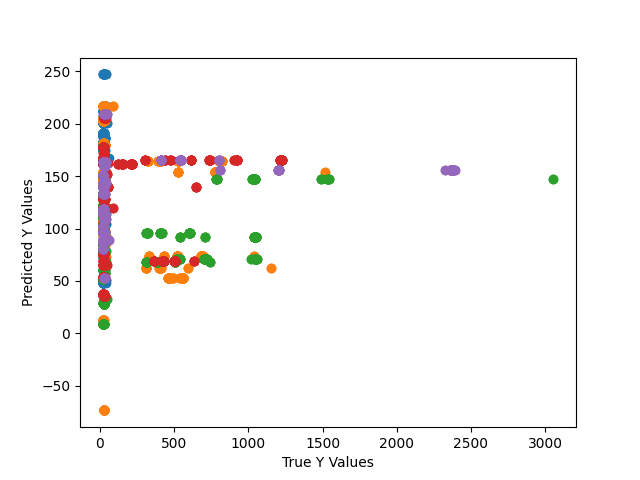
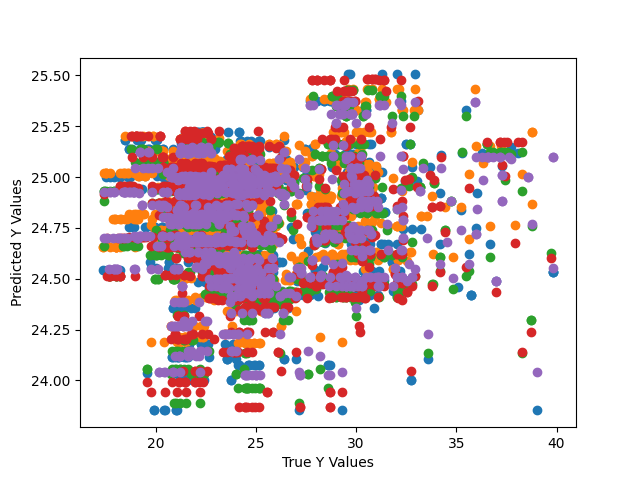
Day 3

diff --git a/final-project-actual.py b/final-project-actual.py
@@ -11,24 +11,11 @@ from sklearn.model_selection import KFold
 from sklearn import linear_model
 from sklearn.metrics import mean_squared_error, r2_score
 
-
-# Load the dataset
-# df = pd.read_csv('f1_pitstops_2018_2024.csv')
-
-# # Grab relevant columns
-# x_cols = ['Air_Temp_C', 'Track_Temp_C', 'Humidity_%', 'Wind_Speed_KMH']
-# x_variables = df[x_cols]
-# label = df['AvgPitStopTime']
-
-
-# # Clean data
-# df = df.dropna(subset=x_cols)
-# df = df.dropna(subset=['AvgPitStopTime'])
-
-# df.to_csv('f1_pitstops_2018_2024_cleaned.csv', index=False)
-
 # Load the cleaned dataset
 df = pd.read_csv('f1_pitstops_2018_2024_cleaned.csv')
+
+# Remove pit stop times over 40 seconds
+df = df[df['AvgPitStopTime'] <= 40]
 
 # Grab relevant columns
 x_cols = ['Track_Temp_C', 'Humidity_%', 'Wind_Speed_KMH']
@@ -36,27 +23,8 @@ x_variables = df[x_cols]
 label = df['AvgPitStopTime']
 
 # Describe the data
-# print(label.describe())
-# print(x_variables.describe())
-
-# # Check for normality of the data
-# for col in x_cols:
-#     plt.figure(figsize=(10, 6))
-#     plt.hist(df[col], bins=30, edgecolor='black')
-#     plt.title(f'Distribution of {col}')
-#     plt.xlabel(col)
-#     plt.ylabel('Frequency')
-#     plt.grid(axis='y', alpha=0.75)
-#     plt.show()
-
-# # Check for normality of the label
-# plt.figure(figsize=(10, 6))
-# plt.hist(label, bins=30, edgecolor='black')
-# plt.title('Average Pit Stop Time')
-# plt.xlabel('Average Pit Stop Time (seconds)')
-# plt.ylabel('Frequency')
-# plt.grid(axis='y', alpha=0.75)
-# plt.show()
+print(label.describe())
+print(x_variables.describe())
 
 
 # print("Correlation Results:")
@@ -75,14 +43,6 @@ label = df_normalized['AvgPitStopTime']
 print("Normalized Data:")
 print(df_normalized.describe())
 
-# Split the data into training and testing sets
-x_train, x_test, y_train, y_test = train_test_split(df_normalized[x_cols], df_normalized['AvgPitStopTime'], test_size=0.2, random_state=42)
-
-print("Training Set Size:")
-print(x_train.shape)
-print("Testing Set Size:")
-print(x_test.shape)
-
 ################################################################
 ######## BE VERY CAREFUL ABOUT CHANGING ANY CODE BELOW THIS LINE
 ################################################################
@@ -97,9 +57,10 @@ not_ynan = [not y for y in ynan] # flip truth values for masking
 X = X[not_ynan]
 y = y[not_ynan]
 X.reset_index(drop=True,inplace=True)
+y.reset_index(drop=True,inplace=True)
 
 # split into 5 folds 
-kf = KFold(n_splits=5)
+kf = KFold(n_splits=5, shuffle=True, random_state=42) # 5 folds
 
 beta = []
 RMSE_train = []
@@ -146,7 +107,7 @@ for i, (train_index, test_index) in enumerate(kf.split(X)):
     # The coefficient of determination (R2): 1 is perfect prediction
     R2_train.append(r2_score(yTrain,y_pred_train))
     R2_test.append(r2_score(yTest,y_pred_test))
-    # print("Coefficient of determination: %.2f" % r2_score(yTest, y_pred_test))
+    # print("Coefficient of determination: %s.2f" % r2_score(yTest, y_pred_test))
 
 print("\nthis is the beta: ")
 print(beta)
@@ -186,14 +147,26 @@ plt.ylabel('R2')
 # plt.show() 
 plt.savefig('ml_results.png')
 
-# plot model over track temperature data
+# Plot model over track temperature data
 plt.clf()
-plt.scatter(x_variables['Track_Temp_C'], label, color="black")
-plt.plot(xTest['Track_Temp_C'], y_pred_test, color='red', label='Regression line')
-plt.xlabel('Track Temperature (C)')
-plt.legend()
+# Scatter plot of the actual data points
+plt.scatter(x_variables['Track_Temp_C'], label, color="black", label="Actual Data")
+track_temp_range = np.linspace(x_variables['Track_Temp_C'].min(), x_variables['Track_Temp_C'].max(), 100).reshape(-1, 1)
+track_temp_df = pd.DataFrame(track_temp_range, columns=['Track_Temp_C'])
+for col in ['Humidity_%', 'Wind_Speed_KMH']:
+    track_temp_df[col] = x_variables[col].mean()
+
+# Predict the pit stop times using the regression model
+y_pred_line = regr.predict(track_temp_df)
+plt.plot(track_temp_range, y_pred_line, color='red', label='Regression Line')
+
+# Add labels and title
+plt.xlabel('Track Temperature (°C, Normalized)')
 plt.ylabel('Average Pit Stop Time (seconds)')
 plt.title('Average Pit Stop Time vs Track Temperature')
+plt.legend()
+
+# Show and save the plot
 plt.show()
 plt.savefig('model_over_track_temp.png')
 
